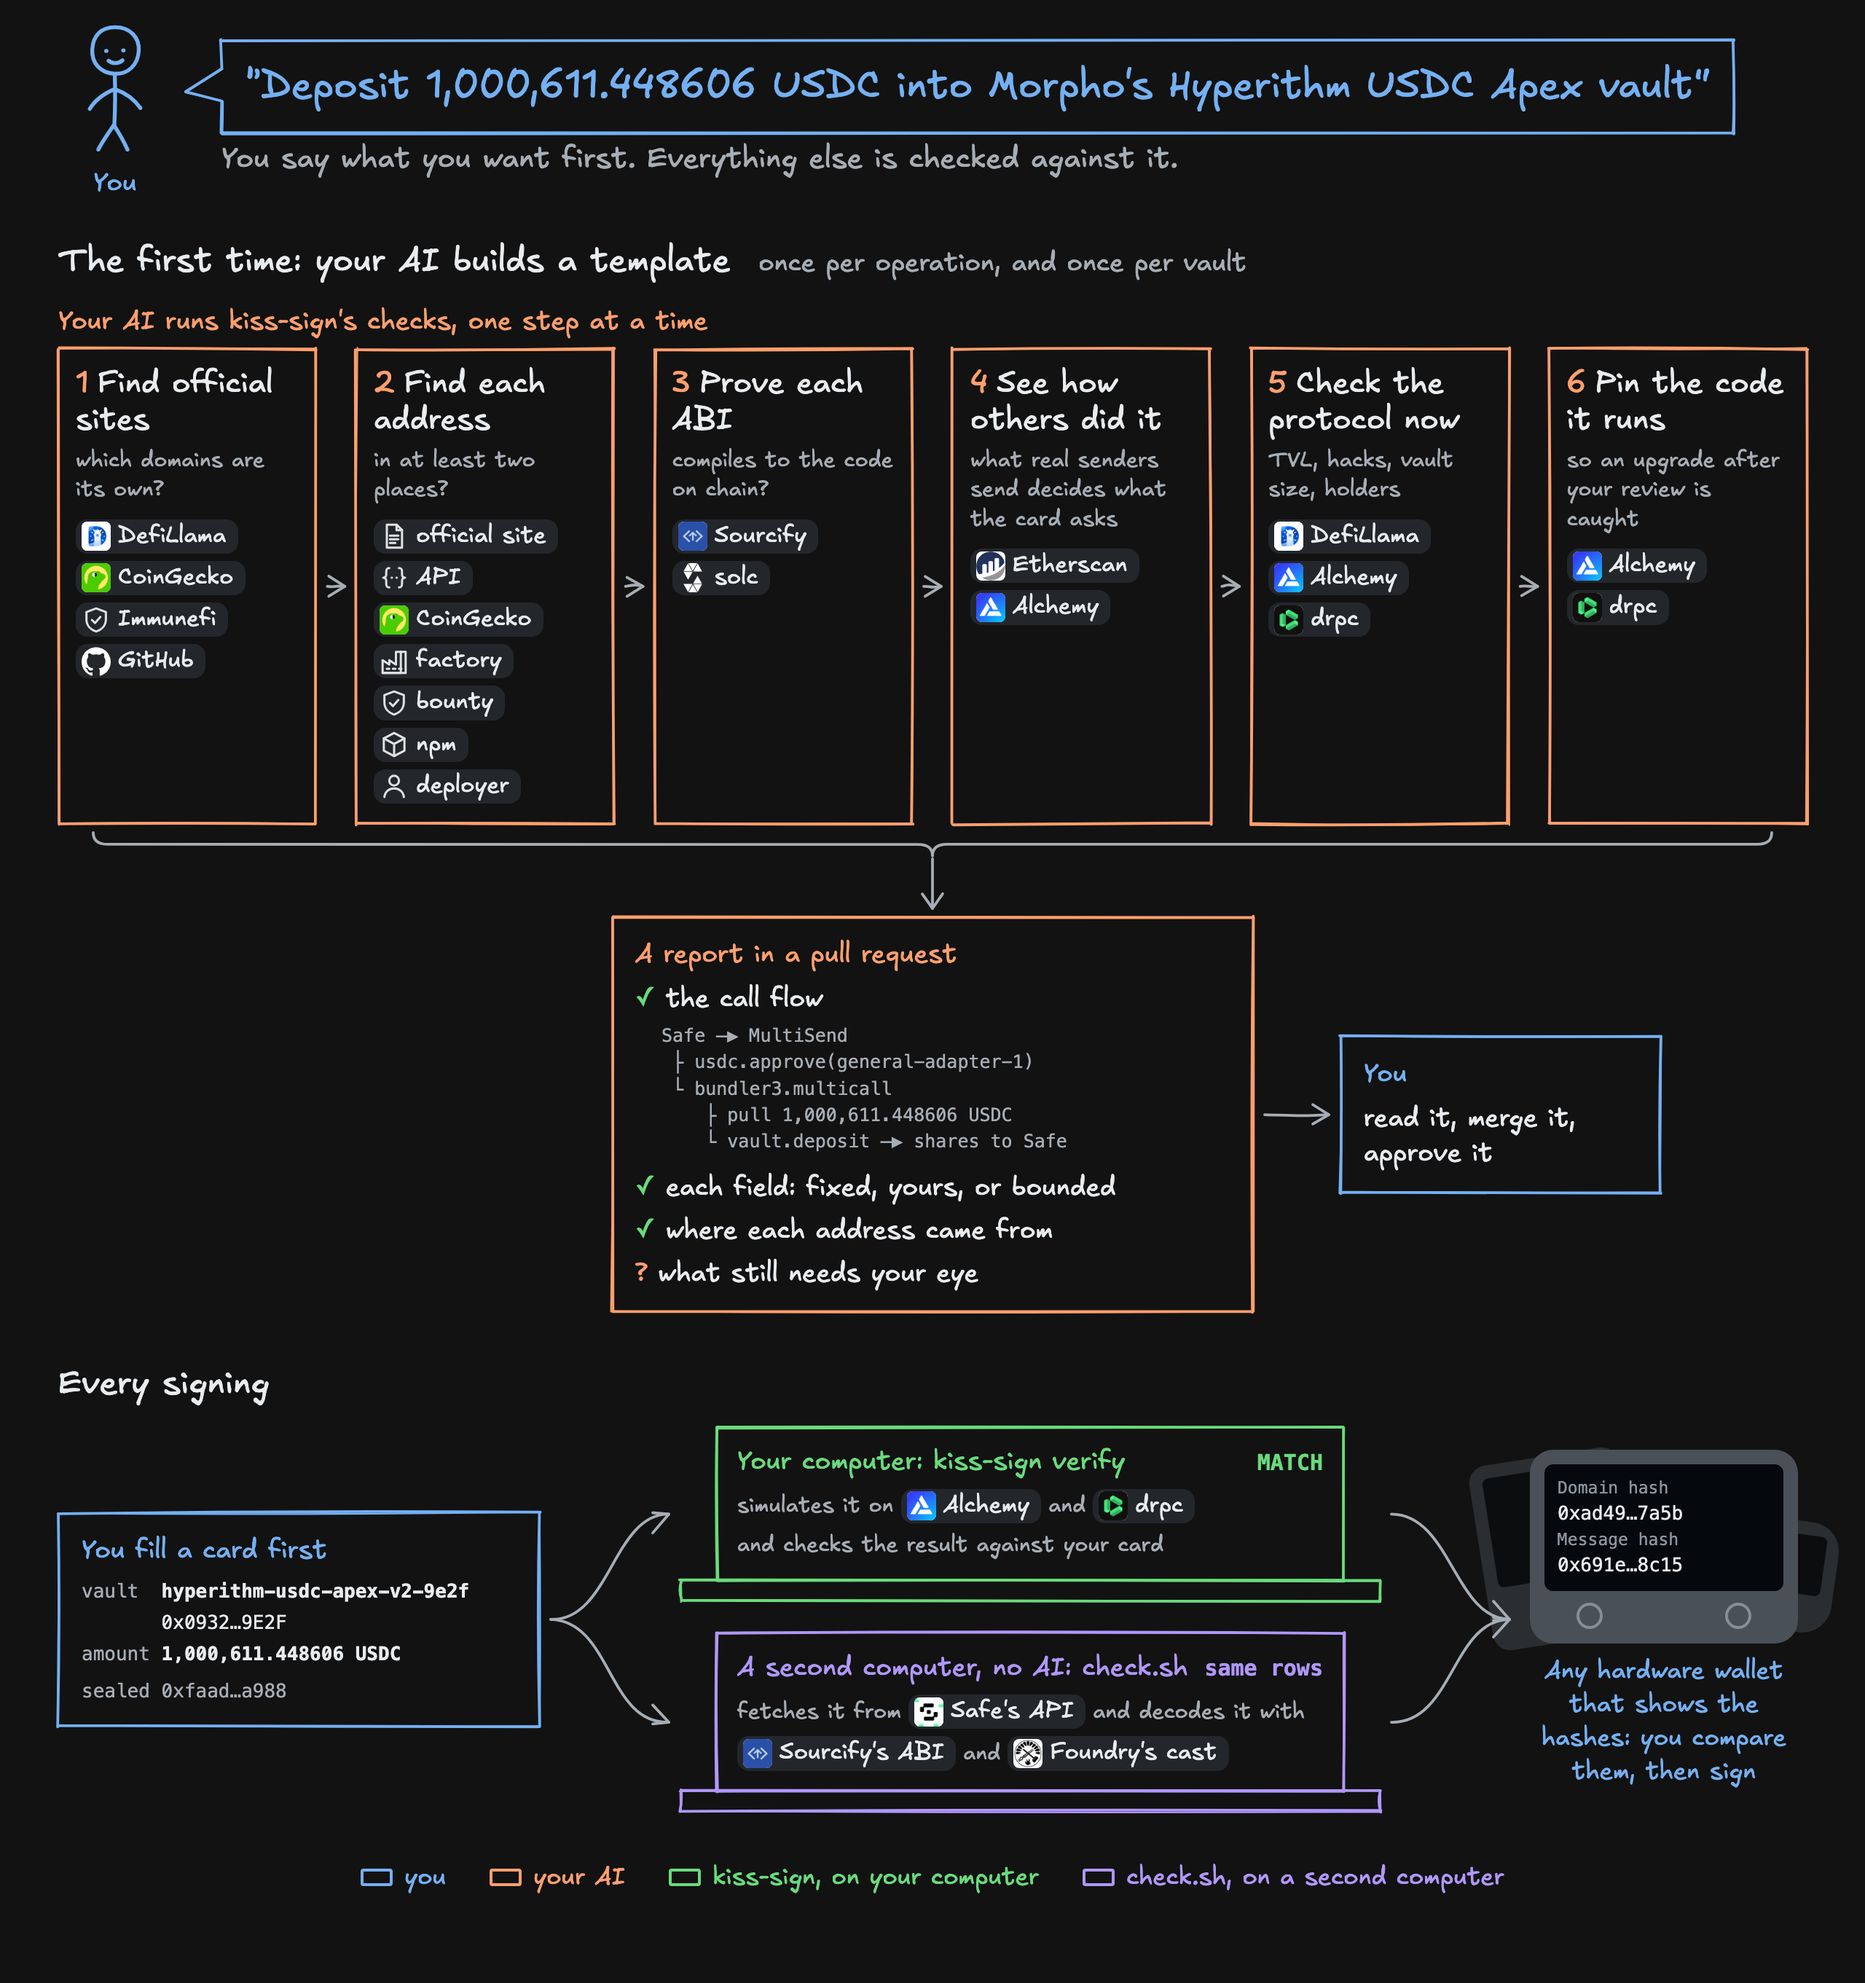
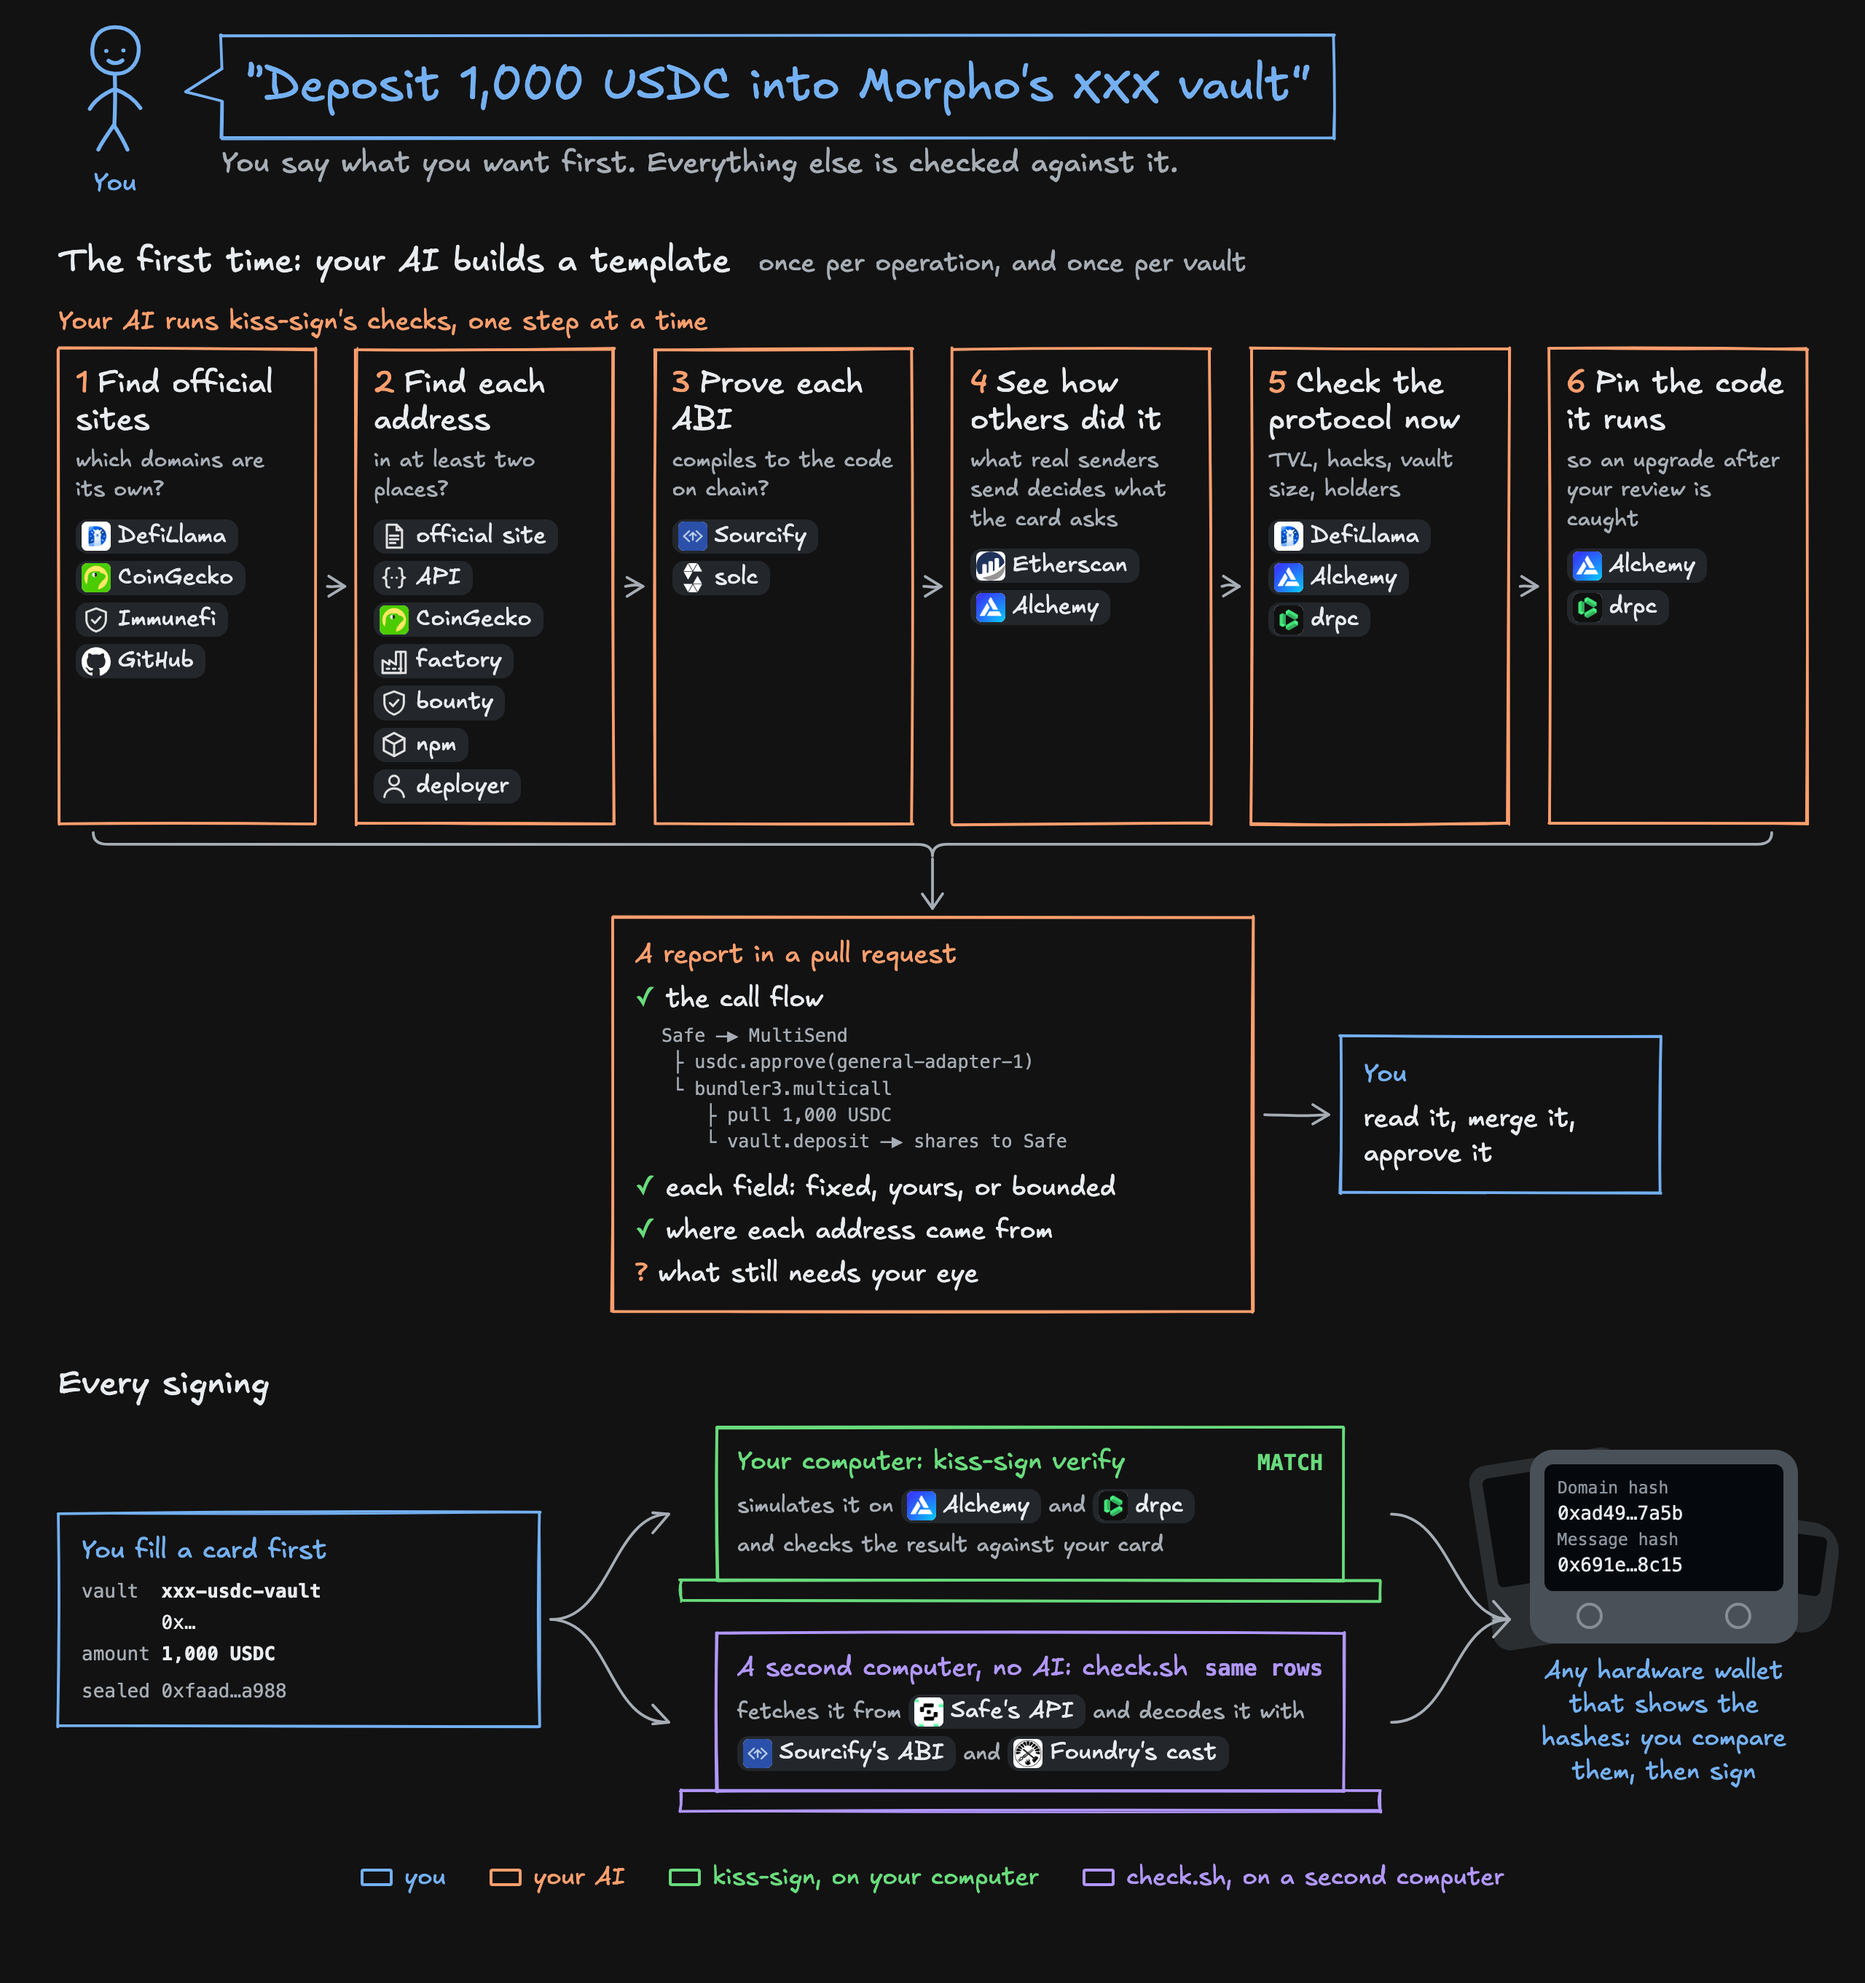
Diagram: a short illustrative intent, no real vault named

Changed region(s): [[0.125, 0.0, 0.9062, 0.0937], [0.0938, 0.7807, 0.25, 0.8431]]

diff --git a/docs/diagrams/readme-overview.html b/docs/diagrams/readme-overview.html
@@ -1,5 +1,5 @@
 <!doctype html>
-<!-- Source of docs/readme/overview.png and overview-dark.png. Values come from a real run: another Safe's nonce 1566.
+<!-- Source of docs/readme/overview.png and overview-dark.png. Values are illustrative; no real vault is named.
      Logos are each project's own (GitHub organization avatars, Etherscan's brand asset, simple-icons; docs.svg, factory.svg, api.svg, bounty.svg, package.svg and deployer.svg drawn for this page). Font: Excalifont, OFL-1.1 (fonts/Excalifont-OFL.txt).
      Re-render with docs/diagrams/render.sh. -->
 <html lang="en">
@@ -32,7 +32,7 @@
   .person { width: 78px; flex: none; text-align: center; color: var(--you); font-size: 18px; }
   .person svg { width: 72px; height: 94px; overflow: visible; }
   .bubble { padding: 14px 22px; }
-  h1 { font-size: 27px; font-weight: 400; color: var(--you); }
+  h1 { font-size: 32px; font-weight: 400; color: var(--you); }
   .say p { color: var(--muted); margin-top: 4px; }
   h2 { font-size: 23px; font-weight: 400; margin: 0 0 14px; }
   h2 b { font-weight: 400; color: var(--muted); font-size: 18px; margin-left: 10px; }
@@ -107,7 +107,7 @@
       <div>You</div>
     </div>
     <div>
-      <div class="sk you bubble" id="bubble"><h1>“Deposit 1,000,611.448606 USDC into Morpho's Hyperithm USDC Apex vault”</h1></div>
+      <div class="sk you bubble" id="bubble"><h1>“Deposit 1,000 USDC into Morpho's XXX vault”</h1></div>
       <p>You say what you want first. Everything else is checked against it.</p>
     </div>
   </div>
@@ -130,7 +130,7 @@
       <ul><li>the call flow<div class="flow mono">Safe ─▶ MultiSend
  ├ usdc.approve(general-adapter-1)
  └ bundler3.multicall
-    ├ pull 1,000,611.448606 USDC
+    ├ pull 1,000 USDC
     └ vault.deposit ─▶ shares to Safe</div></li><li>each field: fixed, yours, or bounded</li><li>where each address came from</li><li class="q">what still needs your eye</li></ul>
     </div>
     <div class="sk you merge" id="merge">
@@ -144,7 +144,7 @@
   <div class="row">
     <div class="sk you card" id="card">
       <div class="who">You fill a card first</div>
-      <div class="ticket mono"><div><span class="k">vault  </span><b>hyperithm-usdc-apex-v2-9e2f</b></div><div><span class="k">       </span>0x0932…9E2F</div><div><span class="k">amount </span><b>1,000,611.448606 USDC</b></div><div class="seal">sealed 0xfaad…a988</div></div>
+      <div class="ticket mono"><div><span class="k">vault  </span><b>xxx-usdc-vault</b></div><div><span class="k">       </span>0x…</div><div><span class="k">amount </span><b>1,000 USDC</b></div><div class="seal">sealed 0xfaad…a988</div></div>
     </div>
     <div class="computers">
       <div class="pc prog" id="pc1">
